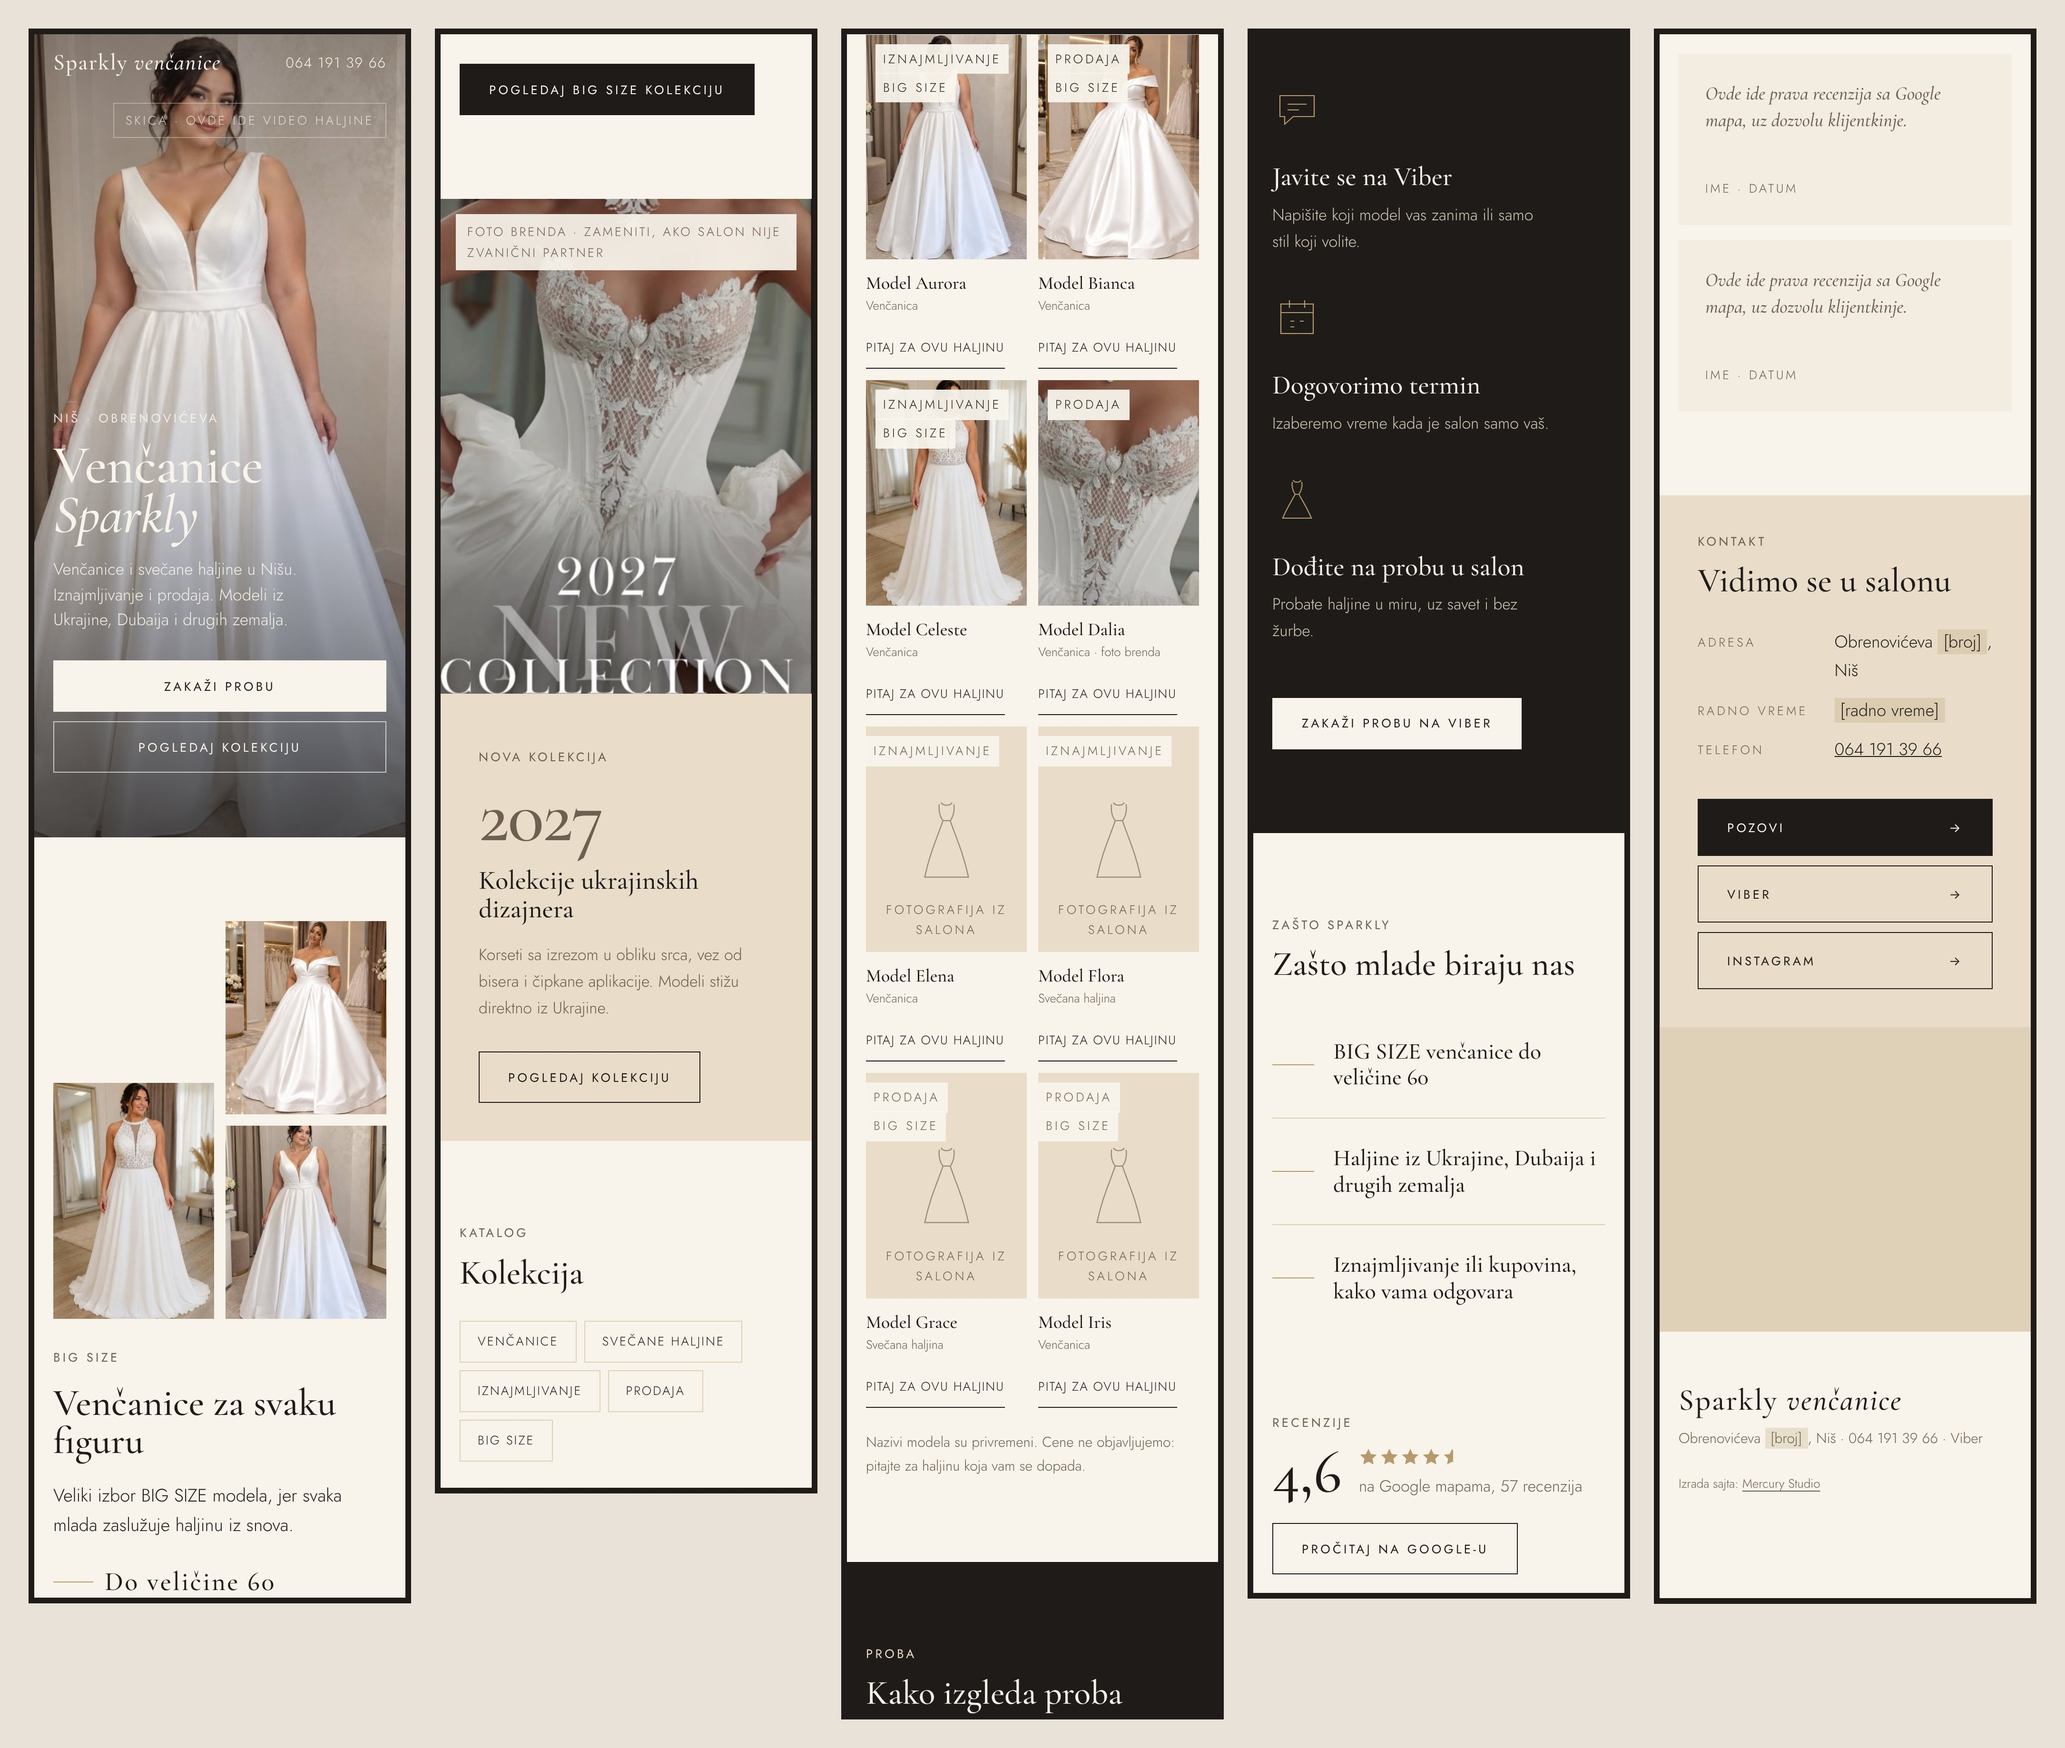
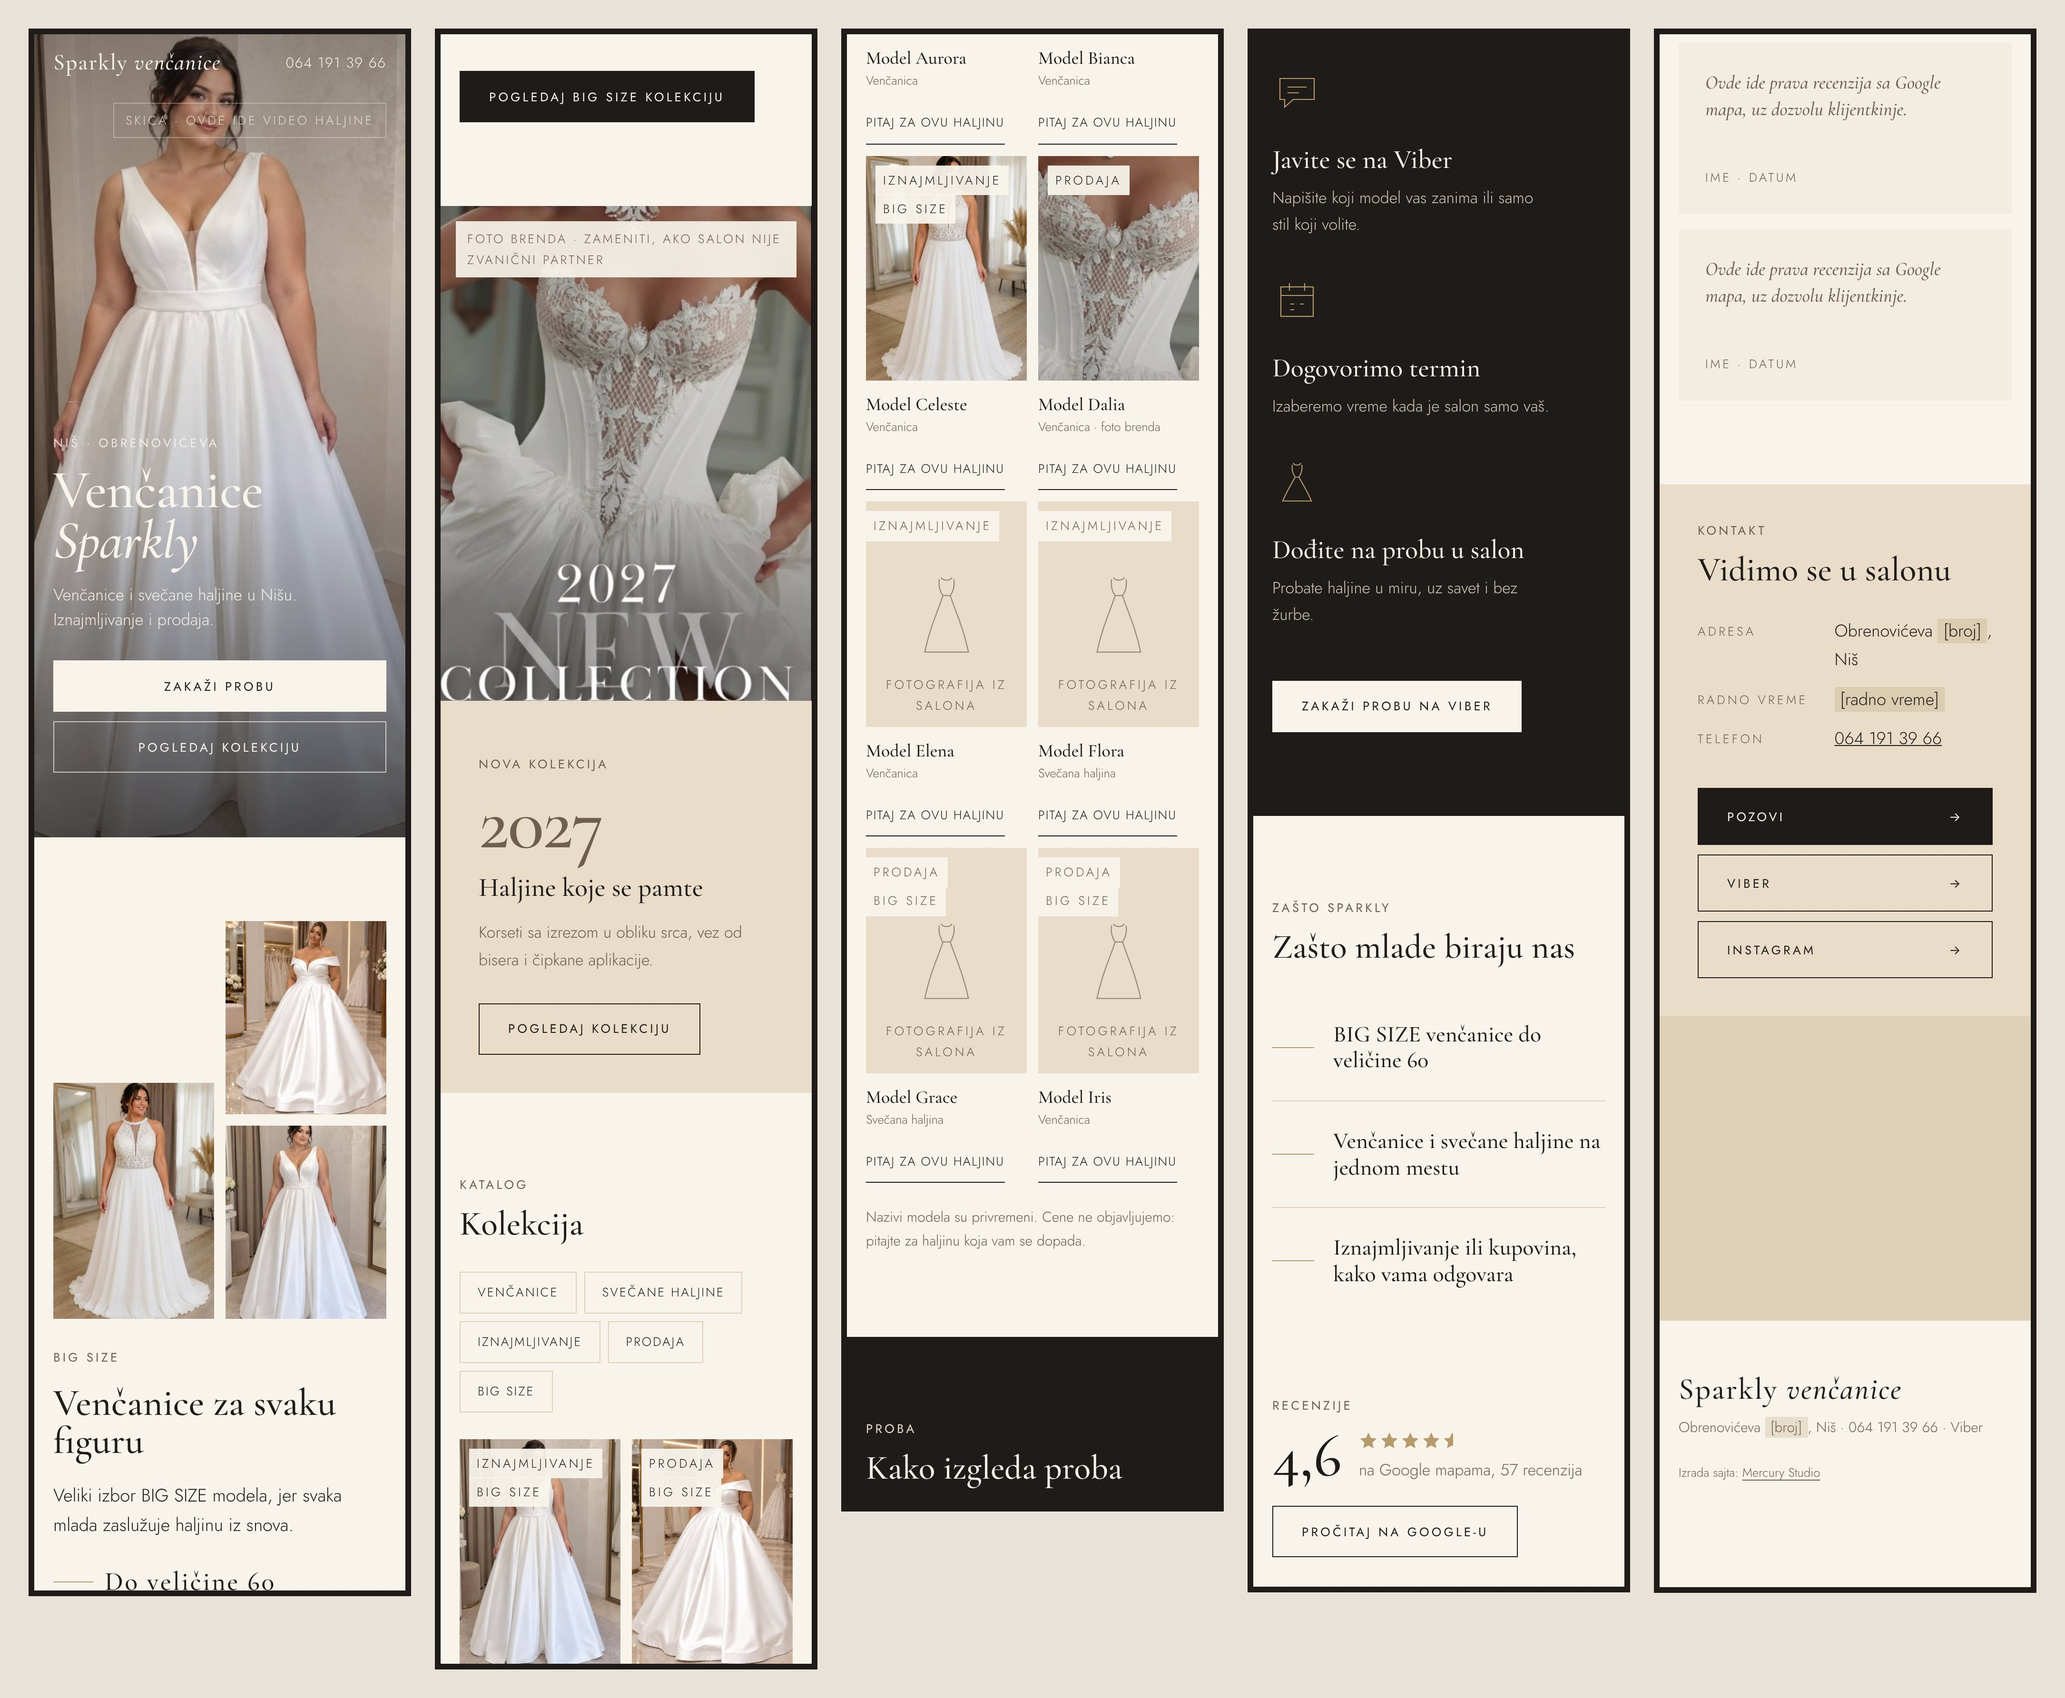
Sparkly: drop dress origin countries at the owner's request
Claude-Session: https://claude.ai/code/session_01UWZxjZDZsRNAHBMSR73c6z

diff --git a/sites/sparkly/index.html b/sites/sparkly/index.html
@@ -4,7 +4,7 @@
 <meta charset="utf-8">
 <meta name="viewport" content="width=device-width, initial-scale=1, viewport-fit=cover">
 <title>Venčanice Sparkly — venčanice i svečane haljine u Nišu</title>
-<meta name="description" content="Salon venčanica Sparkly, Obrenovićeva, Niš. Iznajmljivanje i prodaja venčanica i svečanih haljina, veliki izbor BIG SIZE modela, kolekcije ukrajinskih dizajnera. Zakažite probu: 064 191 39 66.">
+<meta name="description" content="Salon venčanica Sparkly, Obrenovićeva, Niš. Iznajmljivanje i prodaja venčanica i svečanih haljina, veliki izbor BIG SIZE modela do veličine 60. Zakažite probu: 064 191 39 66.">
 <meta name="theme-color" content="#F8F4EC">
 <link rel="preconnect" href="https://fonts.googleapis.com">
 <link rel="preconnect" href="https://fonts.gstatic.com" crossorigin>
@@ -243,11 +243,11 @@ figcaption{margin-top:10px}
     <video autoplay muted loop playsinline preload="none" poster="img/big-2.jpg" aria-hidden="true"><source src="video/hero.mp4" type="video/mp4"></video>
     <span class="vid-note">Skica · ovde ide video haljine</span>
   </div>
-  <ul class="hero-facts" aria-hidden="true"><li>Big size do veličine 60</li><li>Ukrajina · Dubai</li><li>Najam i prodaja</li></ul>
+  <ul class="hero-facts" aria-hidden="true"><li>Big size do veličine 60</li><li>Nova kolekcija 2027</li><li>Najam i prodaja</li></ul>
   <div class="hero-in">
     <p class="caps rise">Niš · Obrenovićeva</p>
     <h1 id="h1" class="rise">Venčanice<br><i>Sparkly</i></h1>
-    <p class="sub rise">Venčanice i svečane haljine u Nišu. Iznajmljivanje i prodaja. Modeli iz Ukrajine, Dubaija i drugih zemalja.</p>
+    <p class="sub rise">Venčanice i svečane haljine u Nišu. Iznajmljivanje i prodaja.</p>
     <div class="acts rise">
       <a class="btn btn--light" href="viber://chat?number=%2B381641913966">Zakaži probu</a>
       <a class="btn btn--ghost-light" href="#kolekcija">Pogledaj kolekciju</a>
@@ -278,8 +278,8 @@ figcaption{margin-top:10px}
   <div class="coll-txt">
     <p class="caps rise">Nova kolekcija</p>
     <p class="year rise">2027</p>
-    <h2 id="coll-h" class="rise">Kolekcije ukrajinskih dizajnera</h2>
-    <p class="rise">Korseti sa izrezom u obliku srca, vez od bisera i čipkane aplikacije. Modeli stižu direktno iz Ukrajine.</p>
+    <h2 id="coll-h" class="rise">Haljine koje se pamte</h2>
+    <p class="rise">Korseti sa izrezom u obliku srca, vez od bisera i čipkane aplikacije.</p>
     <a class="btn btn--line rise" href="#kolekcija">Pogledaj kolekciju</a>
   </div>
 </section>
@@ -317,7 +317,7 @@ figcaption{margin-top:10px}
   <div><p class="caps rise">Zašto Sparkly</p><h2 id="why-h" class="rise">Zašto mlade biraju nas</h2></div>
   <ul>
     <li class="rise"><b aria-hidden="true"></b><span>BIG SIZE venčanice do veličine 60</span></li>
-    <li class="rise"><b aria-hidden="true"></b><span>Haljine iz Ukrajine, Dubaija i drugih zemalja</span></li>
+    <li class="rise"><b aria-hidden="true"></b><span>Venčanice i svečane haljine na jednom mestu</span></li>
     <li class="rise"><b aria-hidden="true"></b><span>Iznajmljivanje ili kupovina, kako vama odgovara</span></li>
   </ul>
 </section>
